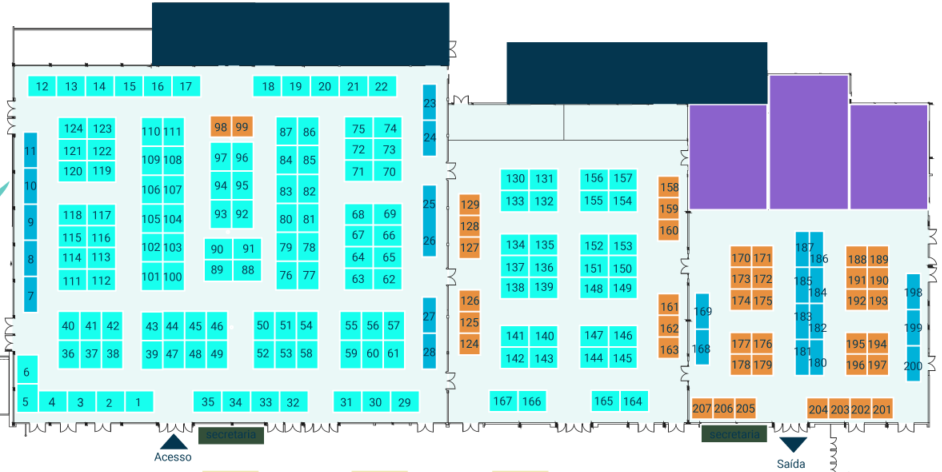
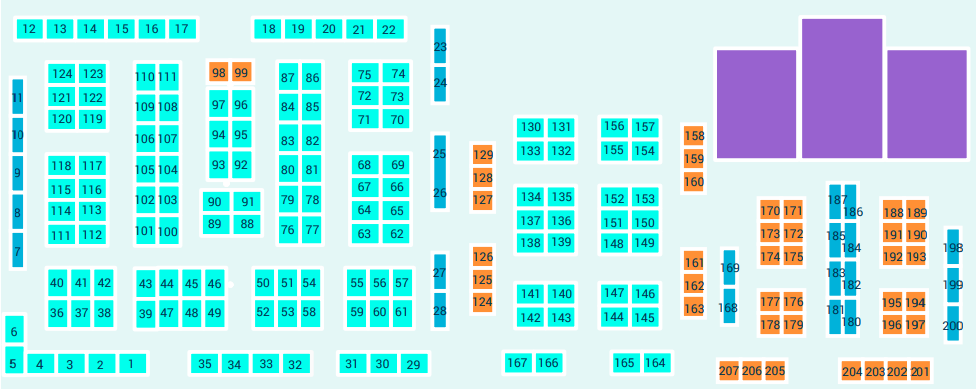
troca do mapa

diff --git a/css/index.css b/css/index.css
@@ -4,7 +4,7 @@ body {
 }
 
 body {
-  background-color: rgb(248, 255, 182);
+  background-color: rgb(223, 223, 223);
 }
 
 h2 {
@@ -20,198 +20,4 @@ h2 {
 .hrefpadrao {
   color: black;
   text-decoration: none;
-}
-
-*,
-*:before,
-*:after {
-  box-sizing: border-box;
-}
-::selection {
-  background-color: #eee;
-}
-::-moz-selection {
-  background-color: #eee;
-}
-body {
-  font-size: 16px;
-  background-color: #269686;
-}
-.theatre {
-  margin: 20px auto;
-  width: 100%;
-  max-width: 350px;
-  border-radius: 5px;
-  background-color: #fff;
-  padding: 20px 10px;
-  box-shadow: 0px 0px 17px -4px #000;
-}
-.screen-side {
-  text-align: center;
-}
-.screen-side .screen {
-  height: 25px;
-  margin: 0 20px;
-  border-radius: 50%;
-  box-shadow: 0px -3px 0px 1px #ccc;
-  color: #ccc;
-}
-.screen-side .select-text {
-  color: #969696;
-}
-.exit {
-  position: relative;
-  height: 50px;
-}
-.exit:before,
-.exit:after {
-  content: "EXIT";
-  font-size: 14px;
-  line-height: 18px;
-  padding: 0px 5px;
-  font-family: "Arial Narrow", Arial, sans-serif;
-  display: block;
-  position: absolute;
-  background: #81c784;
-  color: white;
-  top: 50%;
-  transform: translate(0, -50%);
-}
-.exit:before {
-  left: 0;
-}
-.exit:after {
-  right: 0;
-}
-ol {
-  list-style: none;
-  padding: 0;
-  margin: 0;
-}
-.seats {
-  display: flex;
-  flex-direction: row;
-  flex-wrap: nowrap;
-  justify-content: flex-start;
-}
-.seat {
-  display: flex;
-  flex: 0 0 14.28571%;
-  padding: 5px;
-  position: relative;
-}
-.seat:nth-child(3) {
-  margin-right: 14.28571%;
-}
-.seat input[type="checkbox"] {
-  position: absolute;
-  opacity: 0;
-}
-.seat input[type="checkbox"]:checked + label {
-  background: #bada55;
-  -webkit-animation-name: rubberBand;
-  animation-name: rubberBand;
-  animation-duration: 300ms;
-  animation-fill-mode: both;
-}
-.seat input[type="checkbox"]:disabled + label {
-  background: #ddd;
-  text-indent: -9999px;
-  overflow: hidden;
-}
-.seat input[type="checkbox"]:disabled + label:after {
-  content: "X";
-  text-indent: 0;
-  position: absolute;
-  top: 4px;
-  left: 50%;
-  transform: translate(-50%, 0%);
-}
-.seat input[type="checkbox"]:disabled + label:hover {
-  box-shadow: none;
-  cursor: not-allowed;
-}
-.seat label {
-  display: block;
-  position: relative;
-  width: 100%;
-  text-align: center;
-  font-size: 14px;
-  font-weight: bold;
-  line-height: 1.5rem;
-  padding: 4px 0;
-  color: #fff;
-  background: #26a69a;
-  border-radius: 2px;
-  animation-duration: 300ms;
-  animation-fill-mode: both;
-  transition-duration: 300ms;
-}
-.seat label:hover {
-  cursor: pointer;
-  box-shadow: 0px 0 7px 3px #ccc;
-}
-@-webkit-keyframes rubberBand {
-  0% {
-    -webkit-transform: scale3d(1, 1, 1);
-    transform: scale3d(1, 1, 1);
-  }
-  30% {
-    -webkit-transform: scale3d(1.25, 0.75, 1);
-    transform: scale3d(1.25, 0.75, 1);
-  }
-  40% {
-    -webkit-transform: scale3d(0.75, 1.25, 1);
-    transform: scale3d(0.75, 1.25, 1);
-  }
-  50% {
-    -webkit-transform: scale3d(1.15, 0.85, 1);
-    transform: scale3d(1.15, 0.85, 1);
-  }
-  65% {
-    -webkit-transform: scale3d(0.95, 1.05, 1);
-    transform: scale3d(0.95, 1.05, 1);
-  }
-  75% {
-    -webkit-transform: scale3d(1.05, 0.95, 1);
-    transform: scale3d(1.05, 0.95, 1);
-  }
-  100% {
-    -webkit-transform: scale3d(1, 1, 1);
-    transform: scale3d(1, 1, 1);
-  }
-}
-@keyframes rubberBand {
-  0% {
-    -webkit-transform: scale3d(1, 1, 1);
-    transform: scale3d(1, 1, 1);
-  }
-  30% {
-    -webkit-transform: scale3d(1.25, 0.75, 1);
-    transform: scale3d(1.25, 0.75, 1);
-  }
-  40% {
-    -webkit-transform: scale3d(0.75, 1.25, 1);
-    transform: scale3d(0.75, 1.25, 1);
-  }
-  50% {
-    -webkit-transform: scale3d(1.15, 0.85, 1);
-    transform: scale3d(1.15, 0.85, 1);
-  }
-  65% {
-    -webkit-transform: scale3d(0.95, 1.05, 1);
-    transform: scale3d(0.95, 1.05, 1);
-  }
-  75% {
-    -webkit-transform: scale3d(1.05, 0.95, 1);
-    transform: scale3d(1.05, 0.95, 1);
-  }
-  100% {
-    -webkit-transform: scale3d(1, 1, 1);
-    transform: scale3d(1, 1, 1);
-  }
-}
-.rubberBand {
-  -webkit-animation-name: rubberBand;
-  animation-name: rubberBand;
 }
